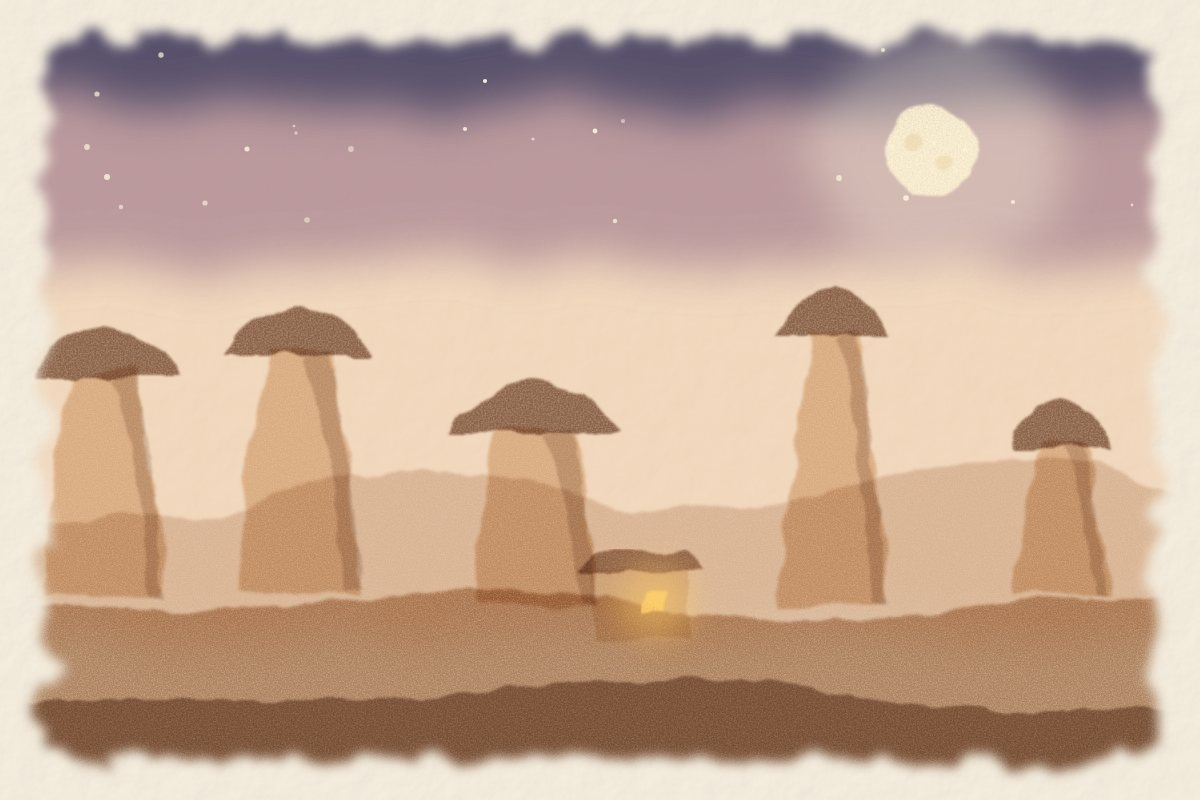
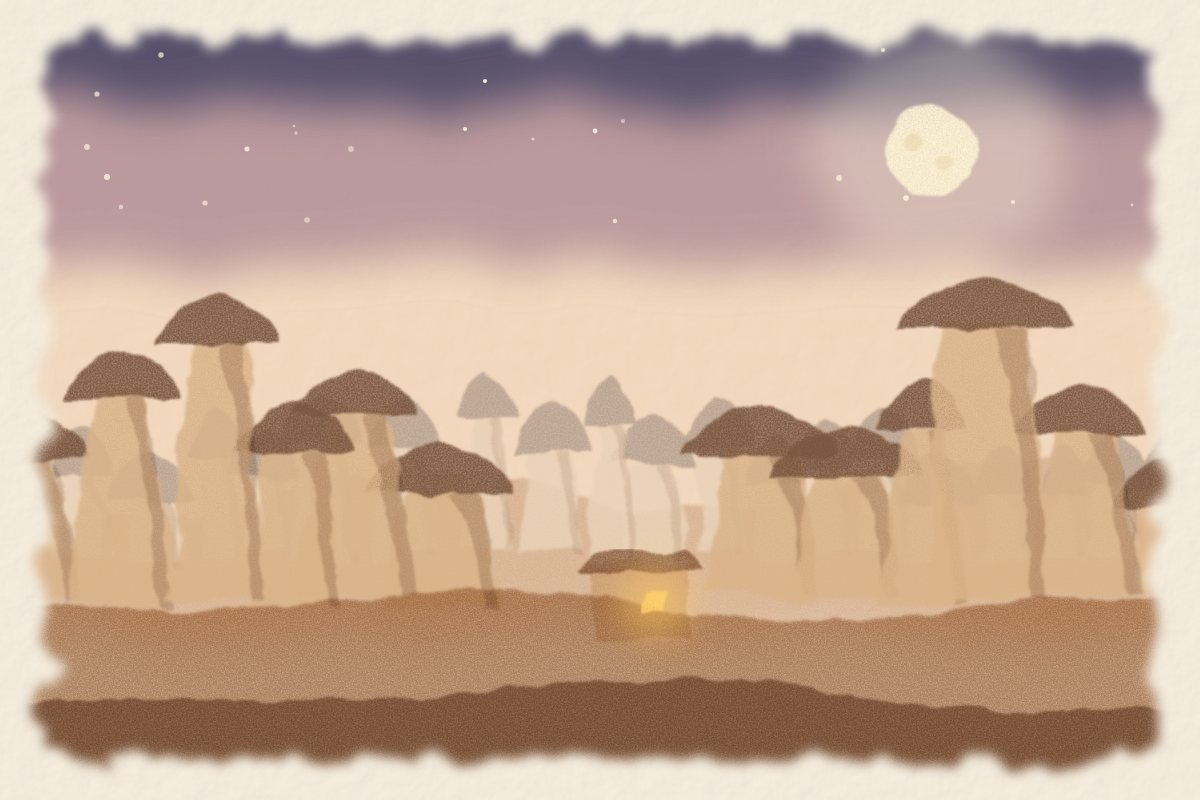
Resimler: peribacaları kümeler halinde, yan yana
Önde opak, birbirine yaslanan kümeler; arkada soluk bir sıra ile derinlik.

Claude-Session: https://claude.ai/code/session_01PgQPpESZjhEF2u5N5NTaoF

Changed region(s): [[0.0308, 0.3438, 0.9867, 0.7812]]

diff --git a/_araclar/suluboya.py b/_araclar/suluboya.py
@@ -97,9 +97,9 @@ def peribacasi(x, gy, h, bw, body, cap, rnd):
          f"C{x+cw*0.3:.0f},{top-26:.0f} {x+cw*0.9:.0f},{top-8:.0f} {x+cw:.0f},{top+22:.0f} Z")
     shade = (f"M{x+nw*0.2:.0f},{top+24:.0f} C{x+nw:.0f},{top+h*0.4:.0f} {r-bw*0.2:.0f},{gy-h*0.3:.0f} {r-bw*0.12:.0f},{gy} L{r:.0f},{gy} "
              f"C{r-bw*0.08:.0f},{gy-h*0.45:.0f} {x+nw*1.4:.0f},{top+h*0.35:.0f} {x+nw:.0f},{top+18:.0f} Z")
-    return (f'<path d="{p}" fill="{body}" opacity="0.8" filter="url(#wc1)" {M}/>'
+    return (f'<path d="{p}" fill="{body}" opacity="0.97" filter="url(#wc1)"/>'
             f'<path d="{shade}" fill="{cap}" opacity="0.28" filter="url(#wc2)" {M}/>'
-            f'<path d="{c}" fill="{cap}" opacity="0.85" filter="url(#wc2)" {M}/>')
+            f'<path d="{c}" fill="{cap}" opacity="0.95" filter="url(#wc2)"/>')
 
 
 def tepe(points, gy, color, op=0.75, f="wc1"):
@@ -176,6 +176,42 @@ def vadi(rnd, gy, body, cap, xs, scale=1.0):
     return "\n".join(out)
 
 
+def acik(hexrenk, oran):
+    """Rengi kâğıt rengine doğru açar (uzaktaki sıralar için)."""
+    r, g, b = (int(hexrenk[i:i+2], 16) for i in (1, 3, 5))
+    k = (247, 241, 229)
+    return "#" + "".join(f"{int(c + (kc - c) * oran):02x}" for c, kc in zip((r, g, b), k))
+
+
+def kume(rnd, gy, body, cap, x0, x1, scale=1.0, sik=0.8):
+    """x0–x1 arasında birbirine yaslanan, ortası daha yüksek bir peribacası kümesi."""
+    xs, x = [], x0
+    while x < x1:
+        bw = rnd.uniform(80, 120) * scale
+        xs.append((x, bw))
+        x += bw * sik * rnd.uniform(0.8, 1.15)
+    orta = (x0 + x1) / 2
+    yari = max(1, (x1 - x0) / 2)
+    out = []
+    # önce kısalar, sonra uzunlar; kenardakiler daha kısa
+    sirali = sorted(xs, key=lambda t: -abs(t[0] - orta))
+    for x, bw in sirali:
+        yakinlik = 1 - min(1, abs(x - orta) / yari) * 0.45
+        h = rnd.uniform(180, 300) * scale * yakinlik
+        out.append(peribacasi(x, gy + rnd.uniform(-6, 10), h, bw, body, cap, rnd))
+    return "\n".join(out)
+
+
+def vadi2(rnd, gy, body, cap, on_kumeler, scale=1.0, arka=True):
+    """Arkada soluk, sık bir sıra; önde belirgin kümeler."""
+    out = []
+    if arka:
+        out.append(kume(rnd, gy - 45, acik(body, 0.5), acik(cap, 0.5), -40, W + 40, scale * 0.55, sik=1.15))
+    for x0, x1 in on_kumeler:
+        out.append(kume(rnd, gy, body, cap, x0, x1, scale))
+    return "\n".join(out)
+
+
 # --- Sahneler ---------------------------------------------------------------
 
 def sahne1():
@@ -185,7 +221,7 @@ def sahne1():
          yildizlar(rnd, 26, 230),
          ay(930, 150, 46),
          tepe([(150, 520), (420, 470), (700, 510), (1000, 460), (1260, 500)], 0, "#c9a98c", 0.55),
-         vadi(rnd, 600, "#d9b48a", "#7a5640", [110, 300, 520, 820, 1050], 1.05),
+         vadi2(rnd, 600, "#d9b48a", "#7a5640", [(20, 470), (760, 1180)], 1.05),
          tepe([(200, 610), (500, 590), (800, 620), (1100, 600)], 0, "#b68a64", 0.8),
          ev(640, 640, 1.4, "#e6cfae", "#8a6248", "#ffcf6b"),
          tepe([(300, 700), (700, 680), (1000, 710)], 0, "#8a6a52", 0.75, "wc2")]
@@ -198,7 +234,7 @@ def sahne2():
     b = [sky("#23315f", "#3f5591", "#8c8fb8", 560),
          yildizlar(rnd, 40, 330),
          ay(860, 190, 78),
-         vadi(rnd, 560, "#8f94b8", "#3f456e", [120, 330, 1080], 1.15),
+         vadi2(rnd, 560, "#8f94b8", "#3f456e", [(10, 400), (780, 1190)], 1.1),
          tepe([(150, 548), (450, 535), (800, 552), (1150, 540)], 0, "#5d6595", 0.85),
          # taşların içinde saklı ışık
          "\n".join(f'<circle cx="{x}" cy="{y}" r="{r}" fill="#fff2c4" opacity="0.5" filter="url(#glow)"/>'
@@ -235,7 +271,7 @@ def sahne4():
          f'<circle cx="300" cy="300" r="90" fill="#fbd27a" opacity="0.55" filter="url(#wash)" {M}/>',
          '<circle cx="300" cy="300" r="46" fill="#f8c25c" opacity="0.85" filter="url(#wc2)"/>',
          tepe([(150, 510), (500, 480), (850, 500), (1200, 470)], 0, "#d8b897", 0.55),
-         vadi(rnd, 590, "#e2b98d", "#9a6a48", [140, 520, 760, 980, 1130], 0.95),
+         vadi2(rnd, 590, "#e2b98d", "#9a6a48", [(380, 760), (980, 1190)], 0.95),
          tepe([(200, 610), (550, 600), (900, 630), (1200, 610)], 0, "#c79a6e", 0.8),
          '<path d="M1180,800 C1000,740 900,720 820,690" fill="none" stroke="#f1dcc0" stroke-width="40" stroke-linecap="round" opacity="0.8" filter="url(#wc1)"/>',
          tepe([(300, 720), (650, 700), (1000, 730)], 0, "#a37b58", 0.7, "wc2"),
@@ -258,7 +294,7 @@ def sahne5():
     b = [sky("#a7c2dc", "#d7e3ea", "#f6e8cf", 600),
          wash(300, 200, 260, 70, "#ffffff", 0.6),
          wash(900, 150, 300, 60, "#ffffff", 0.55),
-         vadi(rnd, 680, "#e1c09c", "#9c7354", [120, 1080], 0.9),
+         vadi2(rnd, 680, "#e1c09c", "#9c7354", [(10, 260), (940, 1190)], 0.9),
          tepe([(200, 680), (600, 650), (1000, 690)], 0, "#b9a07f", 0.7),
          elma(390, 300, 1.4, -14),
          elma(610, 440, 1.6, 8),
